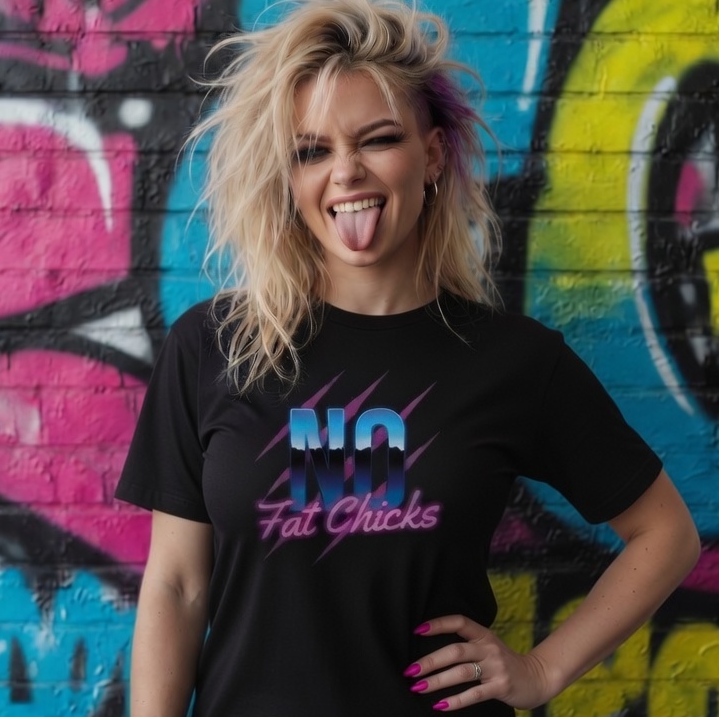
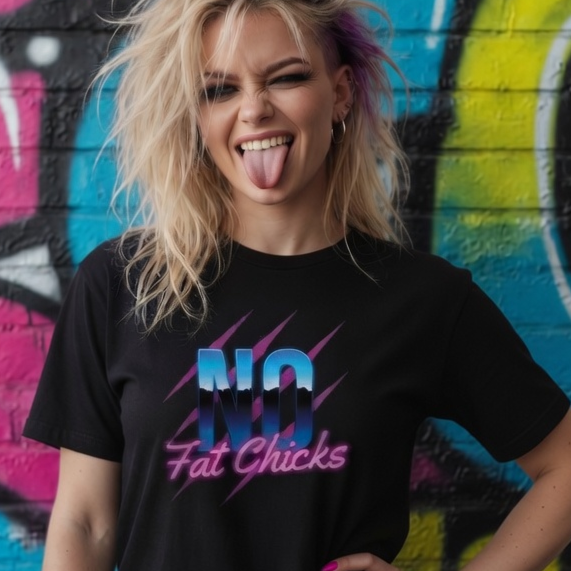
Fix Footer import path + minor image updates

diff --git a/app/page.tsx b/app/page.tsx
@@ -211,4 +211,7 @@ export default function UnhingedHome() {
           </div>
         </div>
       </section>
+    </div>
+  );
 }
+

diff --git a/app/layout.tsx b/app/layout.tsx
@@ -2,7 +2,7 @@ import type { Metadata } from "next";
 import { Geist_Mono, Bebas_Neue, Anton, Oswald } from "next/font/google";
 import Script from "next/script";
 import "./globals.css";
-import Footer from "./components/Footer";
+import Footer from "../components/Footer";
 
 const geistMono = Geist_Mono({
   variable: "--font-geist-mono",